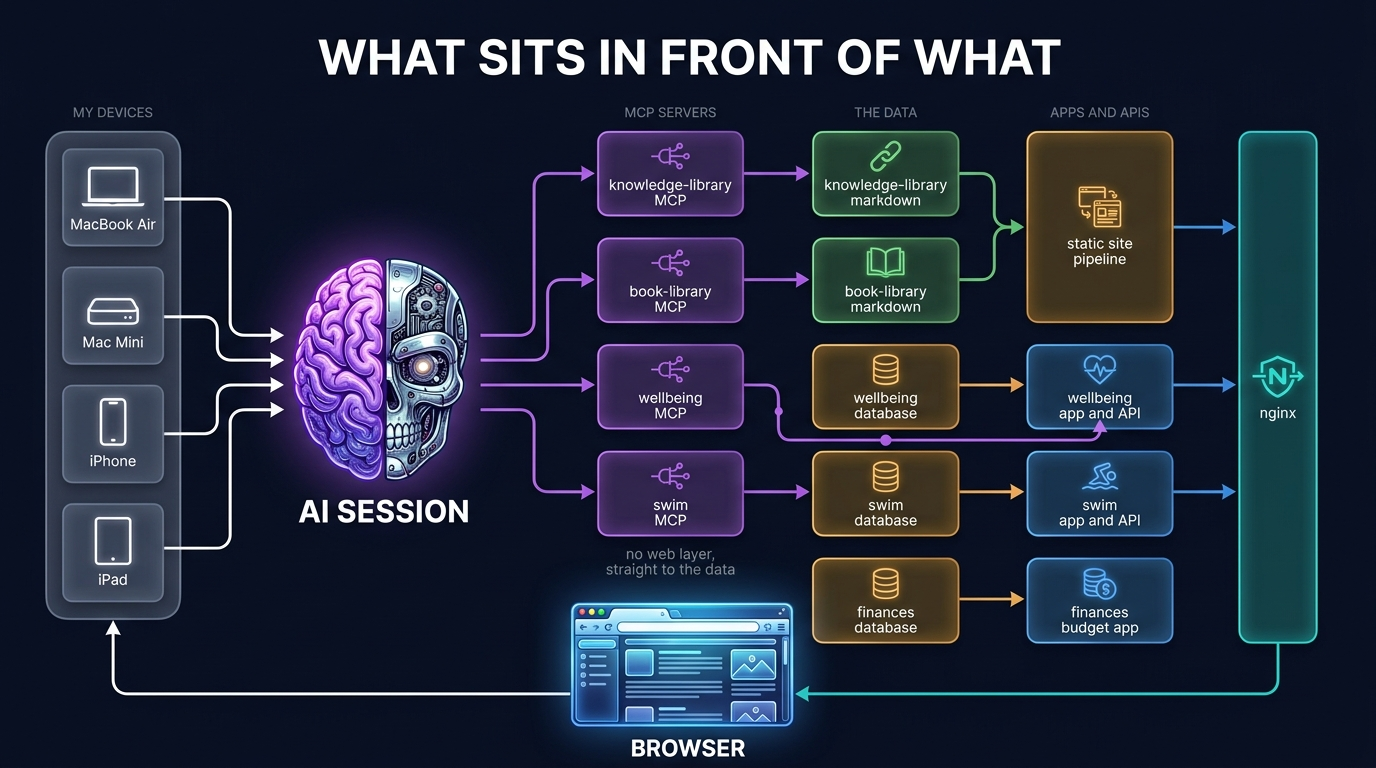
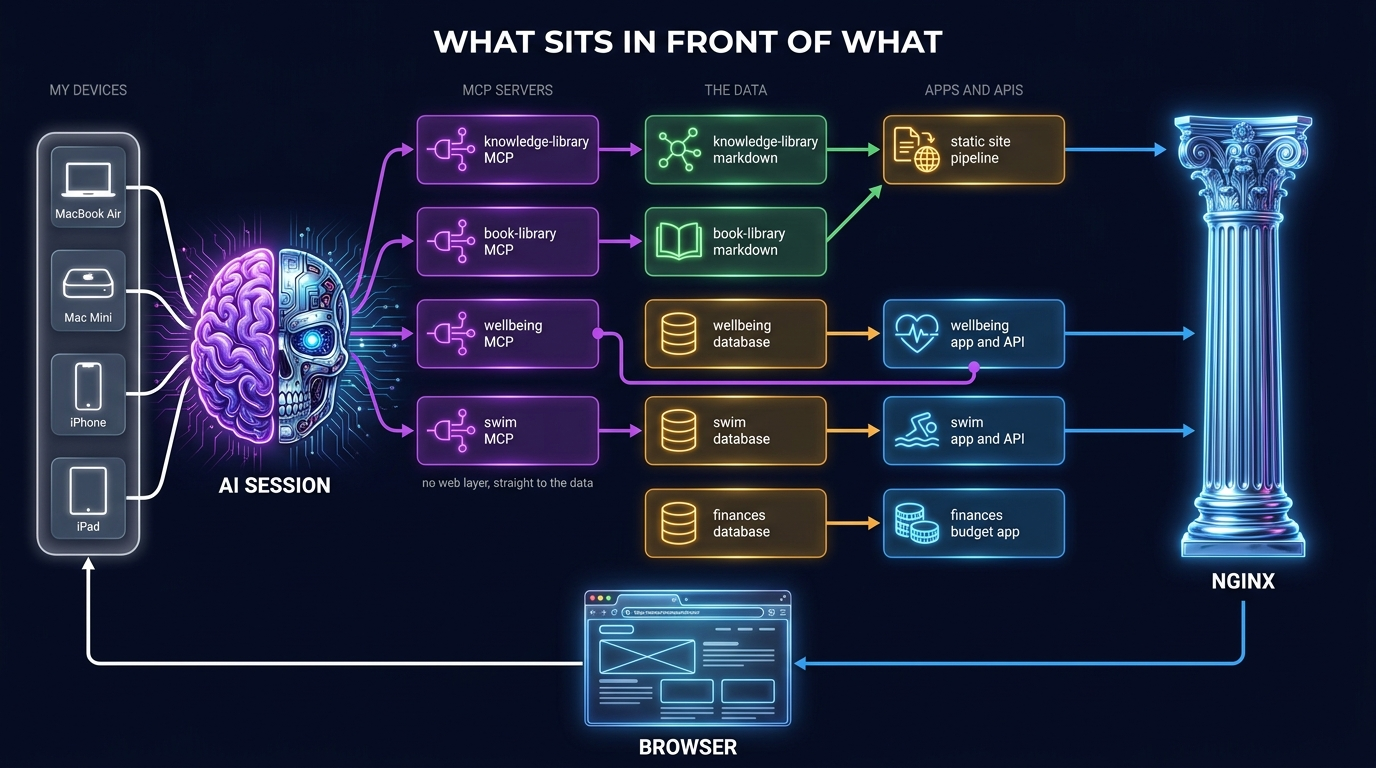
docs: correct the phone case for MCP access, and restyle the access diagram
The MCP servers are local child processes, so a phone does not connect to
them — it is relayed to the desktop app on the Mac Mini, which starts them
there. Say so, rather than implying a phone reaches them on its own.

Regenerate how-state-is-exposed.png with nginx drawn as the marble column
used in the-host.png, so the two diagrams share one visual vocabulary.

Claude-Session: https://claude.ai/code/session_01CQqx1tRFiaDbXoATGzVfH6

diff --git a/ai-setup/README.md b/ai-setup/README.md
@@ -102,7 +102,12 @@ That private network is also the limit of the MCP door. The servers are reachabl
 only from machines on my Tailscale network, which rules out cloud sessions — they run
 in a container that is not on it. So a cloud session gets the repositories from GitHub
 and the operating manual from its plugin, but no live application state. Reading a
-scorecard or writing a swim session needs a session on one of my own machines.
+scorecard or writing a swim session needs a session on one of my own devices.
+
+A phone counts, but indirectly. The servers are local child processes, not network
+services, so nothing connects to them over the network at all. A session on a phone
+reaches them by being relayed to the desktop app on the Mac Mini, which starts them
+there. The Mini is always in the path.
 
 The detail behind each mechanism:
 [MCP server topology](https://github.com/kennyrnwilson/personal-portal/blob/main/docs/system-architecture/mcp-topology.md)

diff --git a/ai-setup/claude-code/README.md b/ai-setup/claude-code/README.md
@@ -44,8 +44,9 @@ makes them cheap to have many of.
 **MCP servers** front live application data. They cost nothing until called, provided
 their schemas are deferred behind a tool search. Mine run on an always-on Mac Mini and
 expose the wellbeing, swim, knowledge, and book libraries, so a session on a phone can
-read and write real state. They are reachable only from machines on my Tailscale
-network, so this is the one layer a cloud session does not get — see
+read and write real state — relayed to the desktop app on that Mini, which is what
+starts them. They are reachable only from machines on my Tailscale network, so this is
+the one layer a cloud session does not get — see
 [the AI setup overview](../README.md#access).
 
 ## My own plugins
